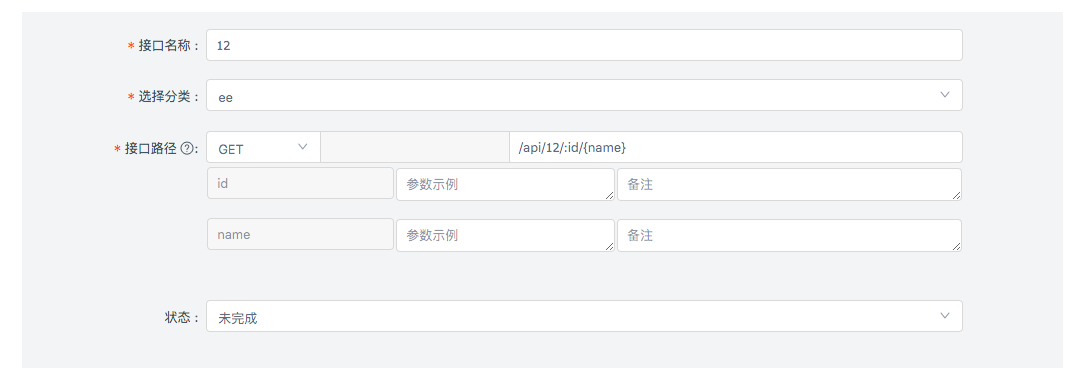
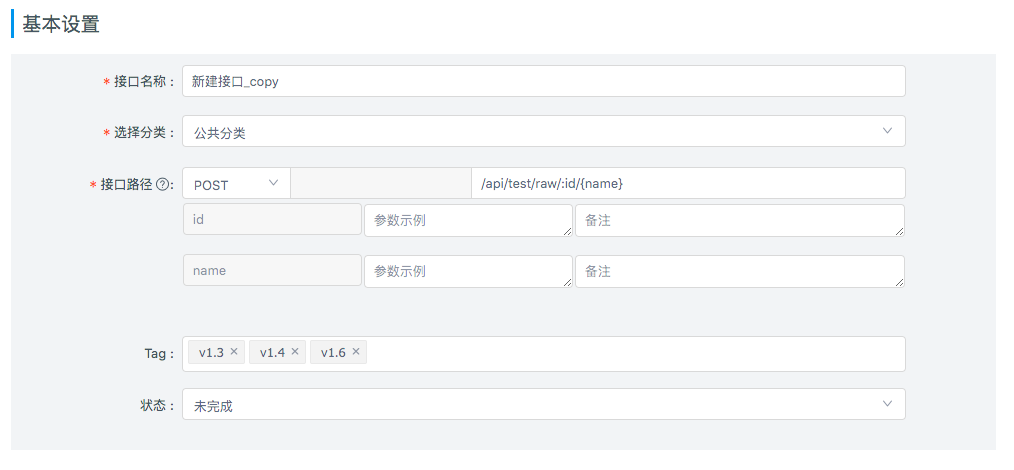
fix: 接口tag可多选

diff --git a/client/containers/Project/Interface/InterfaceList/View.js b/client/containers/Project/Interface/InterfaceList/View.js
@@ -5,7 +5,7 @@ import PropTypes from 'prop-types';
 import { Table, Icon, Row, Col, Tooltip, message } from 'antd';
 import { Link } from 'react-router-dom';
 import AceEditor from 'client/components/AceEditor/AceEditor';
-import { formatTime } from '../../../../common.js';
+import { formatTime, safeArray } from '../../../../common.js';
 import ErrMsg from '../../../../components/ErrMsg/ErrMsg.js';
 import variable from '../../../../constants/variable';
 import constants from '../../../../constants/variable.js';
@@ -372,6 +372,8 @@ class View extends Component {
       methodColor = 'get';
     }
 
+    const {tag, up_time, title, uid, username} = this.props.curData
+    
     let res = (
       <div className="caseContainer">
         <h2 className="interface-title" style={{ marginTop: 0 }}>
@@ -383,15 +385,15 @@ class View extends Component {
               接口名称：
             </Col>
             <Col span={8} className="colName">
-              {this.props.curData.title}
+              {title}
             </Col>
             <Col span={4} className="colKey">
               创&ensp;建&ensp;人：
             </Col>
             <Col span={8} className="colValue">
-              <Link className="user-name" to={'/user/profile/' + this.props.curData.uid}>
-                <img src={'/api/user/avatar?uid=' + this.props.curData.uid} className="user-img" />
-                {this.props.curData.username}
+              <Link className="user-name" to={'/user/profile/' + uid}>
+                <img src={'/api/user/avatar?uid=' + uid} className="user-img" />
+                {username}
               </Link>
             </Col>
           </Row>
@@ -405,15 +407,15 @@ class View extends Component {
             <Col span={4} className="colKey">
               更新时间：
             </Col>
-            <Col span={8}>{formatTime(this.props.curData.up_time)}</Col>
+            <Col span={8}>{formatTime(up_time)}</Col>
           </Row>
-          {this.props.curData.tag && (
+          {safeArray(tag) && safeArray(tag).length>0 && (
             <Row className="row remark">
               <Col span={4} className="colKey">
                    Tag ：
               </Col>
               <Col span={18} className="colValue">
-                {this.props.curData.tag}
+                {tag.join(' ,')}
               </Col>
             </Row>
           )}

diff --git a/client/containers/Project/Interface/InterfaceList/InterfaceList.js b/client/containers/Project/Interface/InterfaceList/InterfaceList.js
@@ -296,12 +296,12 @@ class InterfaceList extends Component {
         key: 'tag',
         width: 14,
         render: text => {
-          // const key = record.key;
-          return <div>{text || '未设置'}</div>;
+          let textMsg = text.length > 0 ? text.join('\n') : '未设置';
+          return <div className="table-desc">{textMsg}</div>
         },
         filters: filter,
         onFilter: (value, record) => {
-          return record.tag && record.tag.indexOf(value) === 0;
+          return record.tag.indexOf(value) >= 0;
         }
       }
     ];

diff --git a/client/containers/Project/Interface/InterfaceList/InterfaceEditForm.js b/client/containers/Project/Interface/InterfaceList/InterfaceEditForm.js
@@ -859,7 +859,7 @@ class InterfaceEditForm extends Component {
           </FormItem>
           <FormItem className="interface-edit-item" {...formItemLayout} label="Tag">
             {getFieldDecorator('tag', { initialValue: this.state.tag })(
-              <Select placeholder="请选择 tag ">
+              <Select placeholder="请选择 tag " mode="multiple">
                 {projectMsg.tag.map(item => {
                   return (
                     <Option value={item.name} key={item._id}>

diff --git a/server/controllers/interface.js b/server/controllers/interface.js
@@ -105,7 +105,7 @@ class interfaceController extends baseController {
           catid: 'number',
           switch_notice: 'boolean',
           message: minLengthStringField,
-          tag: 'string'
+          tag: 'array'
         },
         addAndUpCommonField
       ),

diff --git a/server/models/interface.js b/server/models/interface.js
@@ -94,7 +94,7 @@ class interfaceModel extends baseModel {
       field3: String,
       api_opened: { type: Boolean, default: false },
       index: { type: Number, default: 0 },
-      tag: String
+      tag: Array
     };
   }
 

diff --git a/client/common.js b/client/common.js
@@ -45,6 +45,10 @@ function isJson5(json) {
     return false;
   }
 }
+exports.safeArray = function(arr) {
+  return Array.isArray(arr) ? arr : [];
+};
+
 
 exports.json5_parse = function(json) {
   try {

diff --git a/client/containers/Project/Interface/InterfaceList/Edit.js b/client/containers/Project/Interface/InterfaceList/Edit.js
@@ -142,7 +142,6 @@ class InterfaceEdit extends Component {
   }
 
   onTagClick = () => {
-    console.log(111);
     this.setState({
       visible: true
     });

diff --git a/CHANGELOG.md b/CHANGELOG.md
@@ -1,5 +1,8 @@
 ### v1.3.23
 
+* 接口tag功能
+
+
 #### Bug Fixed
 
 * 接口path中写入 ?name=xxx bug
